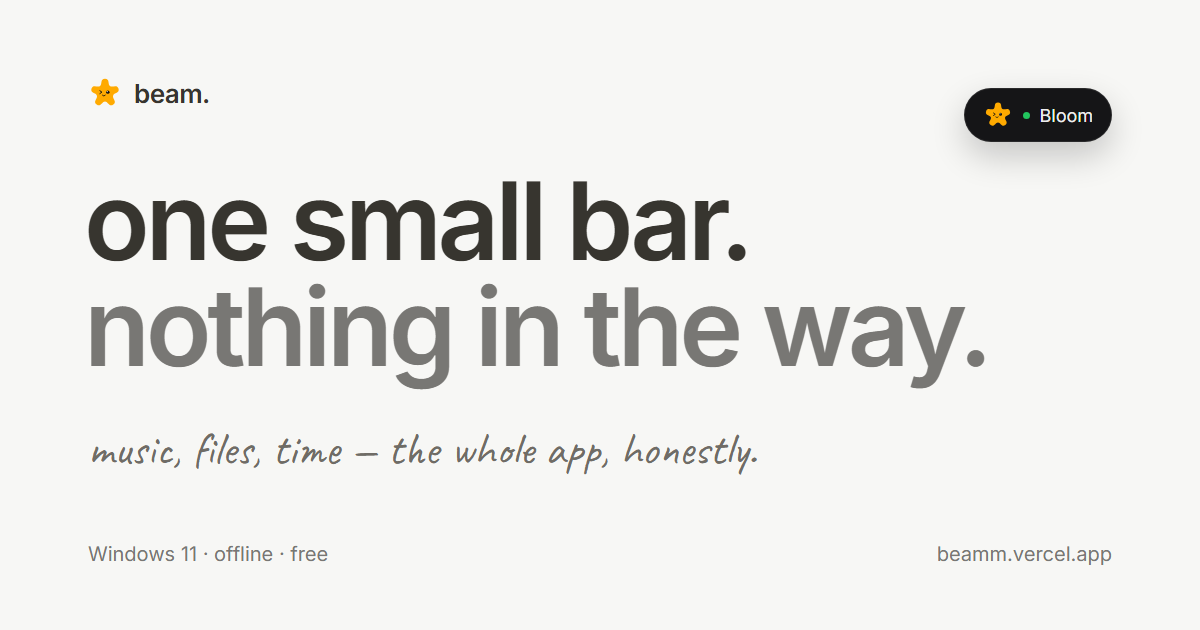
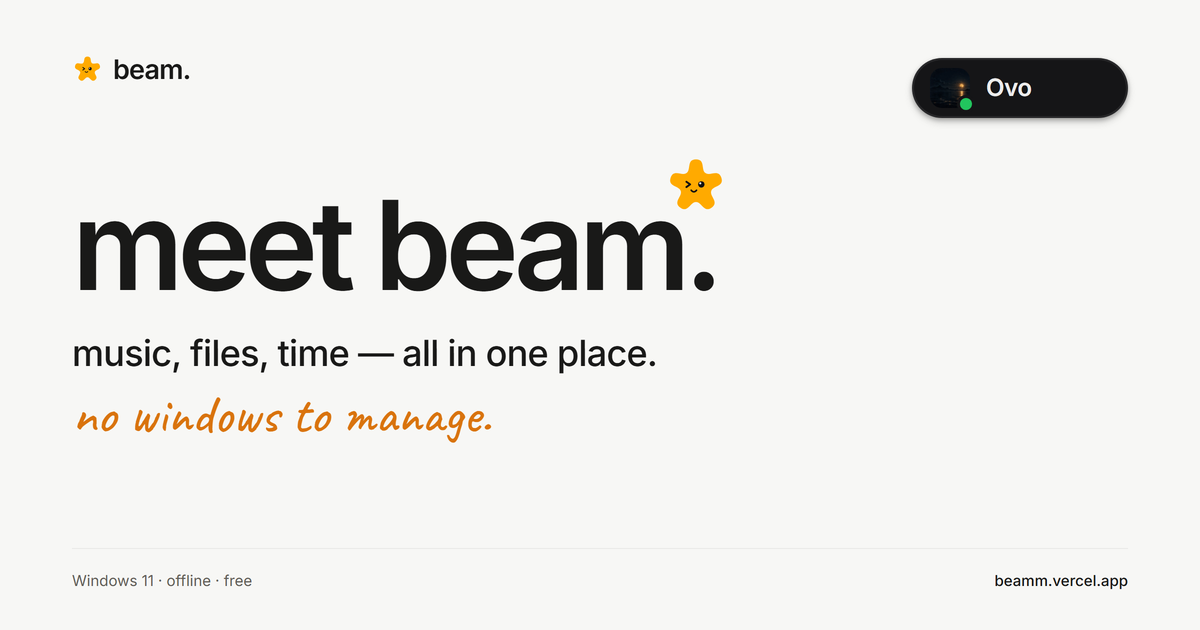
Refresh the social card and correct the site copy
The OG card now renders the real music pill at 2x with the Beam name and an
orange handwritten line. The changelog says quiet starts at 10s, the timer
feature copy matches the running state, and the storage answer lists every
saved setting.

diff --git a/site/src/content/site.ts b/site/src/content/site.ts
@@ -20,7 +20,7 @@ export const FEATURES = [
   {
     icon: Timer,
     title: 'timer',
-    body: 'A countdown that keeps real time through sleep. Pick a preset, or set any length.',
+    body: 'A countdown that keeps running while the pill is hidden. Pick a preset, or set any length.',
     chip: 'bg-green-tint',
     ink: 'text-green'
   },
@@ -41,7 +41,7 @@ export const FAQ = [
   {
     question: 'What does it store on my PC?',
     answer:
-      'The bar’s position, in %APPDATA%\\Beam\\settings.json. Files on the shelf are paths kept in memory, and they clear when you quit.'
+      'Your theme, volume, shortcut, startup choice, and the bar’s position live in %APPDATA%\\Beam\\settings.json. Files on the shelf are paths kept in memory, and they clear when you quit.'
   },
   {
     question: 'Windows says it’s unsafe. What now?',

diff --git a/site/src/app/changelog/page.tsx b/site/src/app/changelog/page.tsx
@@ -17,7 +17,7 @@ const ENTRIES = [
       'Keyboard control: the bar takes focus, Enter or Space opens the panel, and a focus ring shows where you are.',
       'Alt + Space toggles the panel, with Ctrl + Shift + Space as the fallback.',
       'Add files opens the Windows picker, and a cleared shelf can be undone for five seconds.',
-      'The bar dims to a quiet star after 20 seconds, and the window only clips to its visible shape.',
+      'The bar dims to a quiet star after 10 seconds, and the window only clips to its visible shape.',
       'The bar hides while a fullscreen window owns the screen, and the tray brings it back.'
     ]
   },

diff --git a/site/src/app/layout.tsx b/site/src/app/layout.tsx
@@ -18,7 +18,7 @@ export const metadata: Metadata = {
     siteName: 'beam.',
     title,
     description,
-    images: [{ url: '/og.png', width: 1200, height: 630, alt: 'beam. — one small bar for music, files, and time.' }],
+    images: [{ url: '/og.png', width: 1200, height: 630, alt: 'beam. — music, files, time — all in one place.' }],
   },
   twitter: {
     card: 'summary_large_image',
